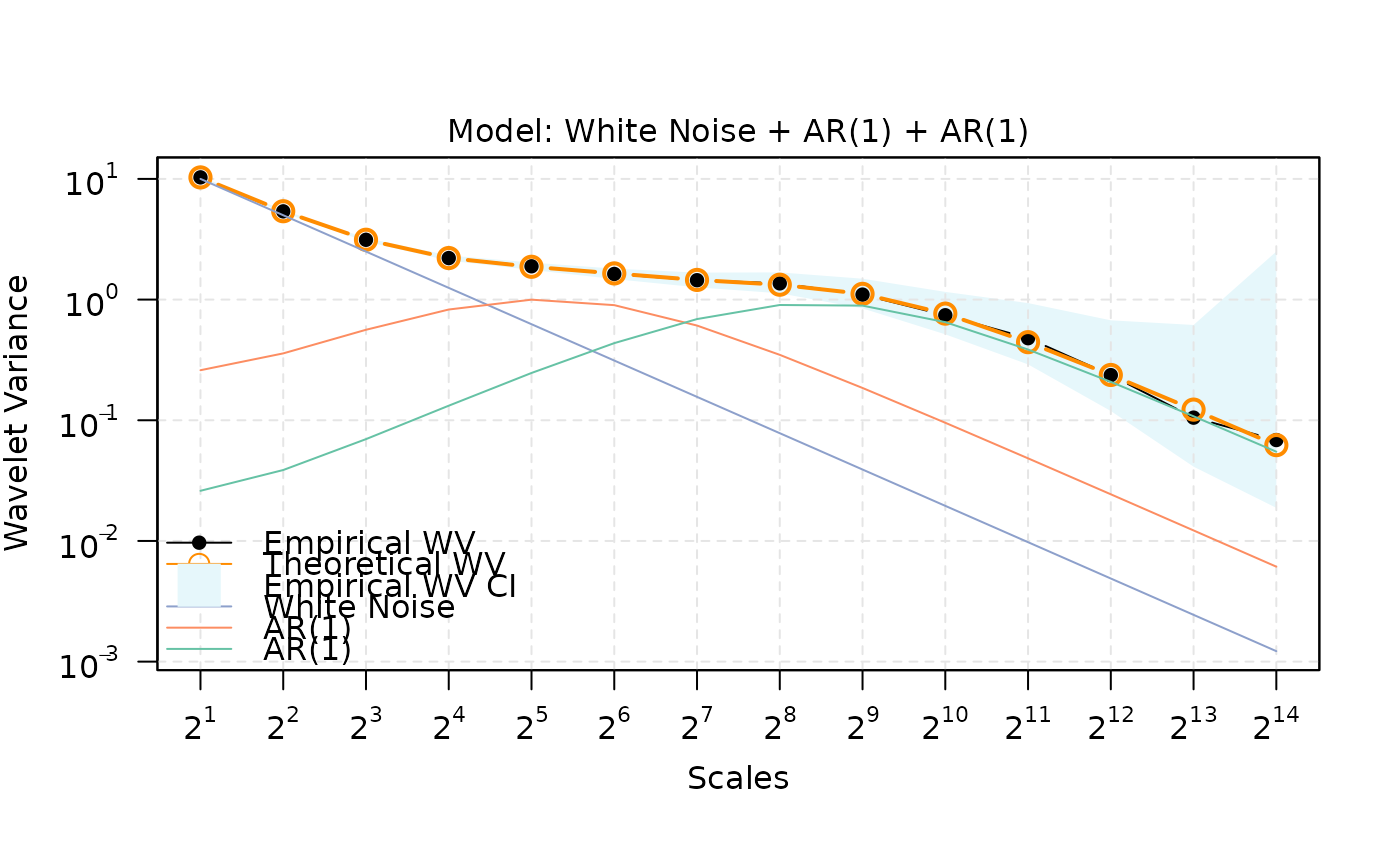
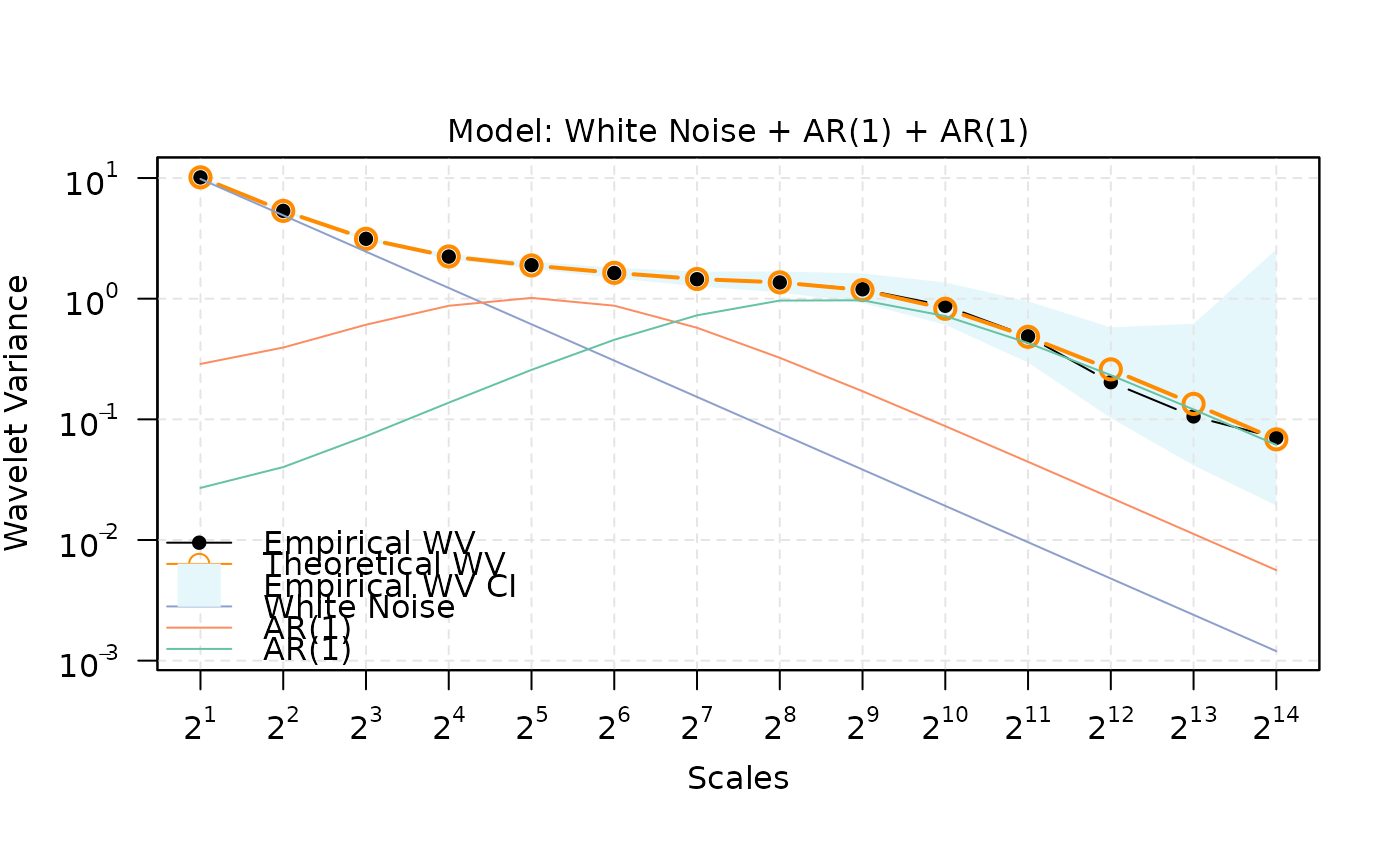
Deploying to gh-pages from @ SMAC-Group/gmwmx2@66578a0d1d781f5d0cd914c42402120cce3a1e83 🚀

diff --git a/reference/gmwm2.html b/reference/gmwm2.html
@@ -156,11 +156,13 @@ doi:10.1080/01621459.2013.799920.</p>
     <div id="ref-examples">
     <h2>Examples</h2>
     <div class="sourceCode"><pre class="sourceCode r"><code><span class="r-in"><span><span class="va">n</span> <span class="op">=</span> <span class="fl">10000</span></span></span>
-<span class="r-in"><span><span class="va">mod</span> <span class="op">=</span> <span class="fu"><a href="wn.html">wn</a></span><span class="op">(</span><span class="fl">20</span><span class="op">)</span> <span class="op">+</span> <span class="fu"><a href="ar1.html">ar1</a></span><span class="op">(</span>phi <span class="op">=</span> <span class="fl">.99</span>, sigma2 <span class="op">=</span> <span class="fl">.1</span><span class="op">)</span></span></span>
-<span class="r-in"><span><span class="va">y</span> <span class="op">=</span> <span class="fu"><a href="generate.html">generate</a></span><span class="op">(</span><span class="va">mod</span>, n <span class="op">=</span> <span class="va">n</span><span class="op">)</span></span></span>
+<span class="r-in"><span><span class="va">mod</span> <span class="op">=</span> <span class="fu"><a href="wn.html">wn</a></span><span class="op">(</span><span class="fl">20</span><span class="op">)</span> <span class="op">+</span> <span class="fu"><a href="ar1.html">ar1</a></span><span class="op">(</span>phi <span class="op">=</span> <span class="fl">.995</span>, sigma2 <span class="op">=</span> <span class="fl">.2</span><span class="op">)</span></span></span>
+<span class="r-in"><span><span class="va">y</span> <span class="op">=</span> <span class="fu"><a href="generate.html">generate</a></span><span class="op">(</span><span class="va">mod</span>, n <span class="op">=</span> <span class="va">n</span>, seed <span class="op">=</span> <span class="fl">123</span><span class="op">)</span></span></span>
+<span class="r-in"><span><span class="fu"><a href="https://rdrr.io/r/graphics/plot.default.html" class="external-link">plot</a></span><span class="op">(</span><span class="va">y</span><span class="op">)</span></span></span>
+<span class="r-plt img"><img src="gmwm2-1.png" alt="" width="700" height="433"></span>
 <span class="r-in"><span><span class="va">fit</span> <span class="op">=</span> <span class="fu">gmwm2</span><span class="op">(</span><span class="va">y</span>, model <span class="op">=</span> <span class="fu"><a href="wn.html">wn</a></span><span class="op">(</span><span class="op">)</span> <span class="op">+</span> <span class="fu"><a href="ar1.html">ar1</a></span><span class="op">(</span><span class="op">)</span> <span class="op">)</span></span></span>
 <span class="r-in"><span><span class="fu"><a href="https://rdrr.io/r/graphics/plot.default.html" class="external-link">plot</a></span><span class="op">(</span><span class="va">fit</span><span class="op">)</span></span></span>
-<span class="r-plt img"><img src="gmwm2-1.png" alt="" width="700" height="433"></span>
+<span class="r-plt img"><img src="gmwm2-2.png" alt="" width="700" height="433"></span>
 </code></pre></div>
     </div>
   </div>

diff --git a/reference/summary.fit_gnss_ts_ngl.html b/reference/summary.fit_gnss_ts_ngl.html
@@ -137,7 +137,7 @@
 <span class="r-out co"><span class="r-pr">#&gt;</span>  P(Z_{i+1} = 1 | Z_{i} = 0): 0.10000000</span>
 <span class="r-out co"><span class="r-pr">#&gt;</span>  \hat{E[Z]}: 0.99350860</span>
 <span class="r-out co"><span class="r-pr">#&gt;</span> -------------------------------------------------------------</span>
-<span class="r-out co"><span class="r-pr">#&gt;</span> Running time: 0.21 seconds</span>
+<span class="r-out co"><span class="r-pr">#&gt;</span> Running time: 0.25 seconds</span>
 <span class="r-out co"><span class="r-pr">#&gt;</span> -------------------------------------------------------------</span>
 <span class="r-in"><span><span class="fu"><a href="https://rdrr.io/r/base/summary.html" class="external-link">summary</a></span><span class="op">(</span><span class="va">fit1</span>, scale_parameters <span class="op">=</span> <span class="cn">TRUE</span><span class="op">)</span></span></span>
 <span class="r-out co"><span class="r-pr">#&gt;</span> Summary of Estimated Model</span>
@@ -167,7 +167,7 @@
 <span class="r-out co"><span class="r-pr">#&gt;</span>  P(Z_{i+1} = 1 | Z_{i} = 0): 0.10000000</span>
 <span class="r-out co"><span class="r-pr">#&gt;</span>  \hat{E[Z]}: 0.99350860</span>
 <span class="r-out co"><span class="r-pr">#&gt;</span> -------------------------------------------------------------</span>
-<span class="r-out co"><span class="r-pr">#&gt;</span> Running time: 0.21 seconds</span>
+<span class="r-out co"><span class="r-pr">#&gt;</span> Running time: 0.25 seconds</span>
 <span class="r-out co"><span class="r-pr">#&gt;</span> -------------------------------------------------------------</span>
 <span class="r-in"><span><span class="va">fit2</span> <span class="op">&lt;-</span> <span class="fu"><a href="gmwmx2.html">gmwmx2</a></span><span class="op">(</span><span class="va">x</span>, n_seasonal <span class="op">=</span> <span class="fl">2</span>, component <span class="op">=</span> <span class="st">"N"</span>, stochastic_model <span class="op">=</span> <span class="st">"wn + fl"</span><span class="op">)</span></span></span>
 <span class="r-in"><span><span class="fu"><a href="https://rdrr.io/r/base/summary.html" class="external-link">summary</a></span><span class="op">(</span><span class="va">fit2</span><span class="op">)</span></span></span>
@@ -197,7 +197,7 @@
 <span class="r-out co"><span class="r-pr">#&gt;</span>  P(Z_{i+1} = 1 | Z_{i} = 0): 0.10000000</span>
 <span class="r-out co"><span class="r-pr">#&gt;</span>  \hat{E[Z]}: 0.99350860</span>
 <span class="r-out co"><span class="r-pr">#&gt;</span> -------------------------------------------------------------</span>
-<span class="r-out co"><span class="r-pr">#&gt;</span> Running time: 0.88 seconds</span>
+<span class="r-out co"><span class="r-pr">#&gt;</span> Running time: 0.93 seconds</span>
 <span class="r-out co"><span class="r-pr">#&gt;</span> -------------------------------------------------------------</span>
 <span class="r-in"><span></span></span>
 </code></pre></div>

diff --git a/articles/fit_model.html b/articles/fit_model.html
@@ -528,7 +528,7 @@ specific component (North, East or Vertical) of one station.</p>
 <span><span class="co">##  P(Z_{i+1} = 1 | Z_{i} = 0): 0.31578947</span></span>
 <span><span class="co">##  \hat{E[Z]}: 0.99122807</span></span>
 <span><span class="co">## -------------------------------------------------------------</span></span>
-<span><span class="co">## Running time: 0.78 seconds</span></span>
+<span><span class="co">## Running time: 0.77 seconds</span></span>
 <span><span class="co">## -------------------------------------------------------------</span></span></code></pre>
 <p>By default, the estimated parameters are provided in m/day, we can
 optionally scale the estimated functional parameters so that they are
@@ -577,7 +577,7 @@ returned in m/year with the argument <code>scale_parameters</code>.</p>
 <span><span class="co">##  P(Z_{i+1} = 1 | Z_{i} = 0): 0.31578947</span></span>
 <span><span class="co">##  \hat{E[Z]}: 0.99122807</span></span>
 <span><span class="co">## -------------------------------------------------------------</span></span>
-<span><span class="co">## Running time: 0.78 seconds</span></span>
+<span><span class="co">## Running time: 0.77 seconds</span></span>
 <span><span class="co">## -------------------------------------------------------------</span></span></code></pre>
 </div>
 <div class="section level2">

diff --git a/reference/print.gmwm2_fit.html b/reference/print.gmwm2_fit.html
@@ -139,7 +139,7 @@
 <span class="r-out co"><span class="r-pr">#&gt;</span> </span>
 <span class="r-out co"><span class="r-pr">#&gt;</span> Optimization</span>
 <span class="r-out co"><span class="r-pr">#&gt;</span>   Convergence : converged (code 0)</span>
-<span class="r-out co"><span class="r-pr">#&gt;</span>   Iterations  : 38</span>
+<span class="r-out co"><span class="r-pr">#&gt;</span>   Iterations  : 34</span>
 <span class="r-out co"><span class="r-pr">#&gt;</span>   Loss        : 0.03692</span>
 </code></pre></div>
     </div>